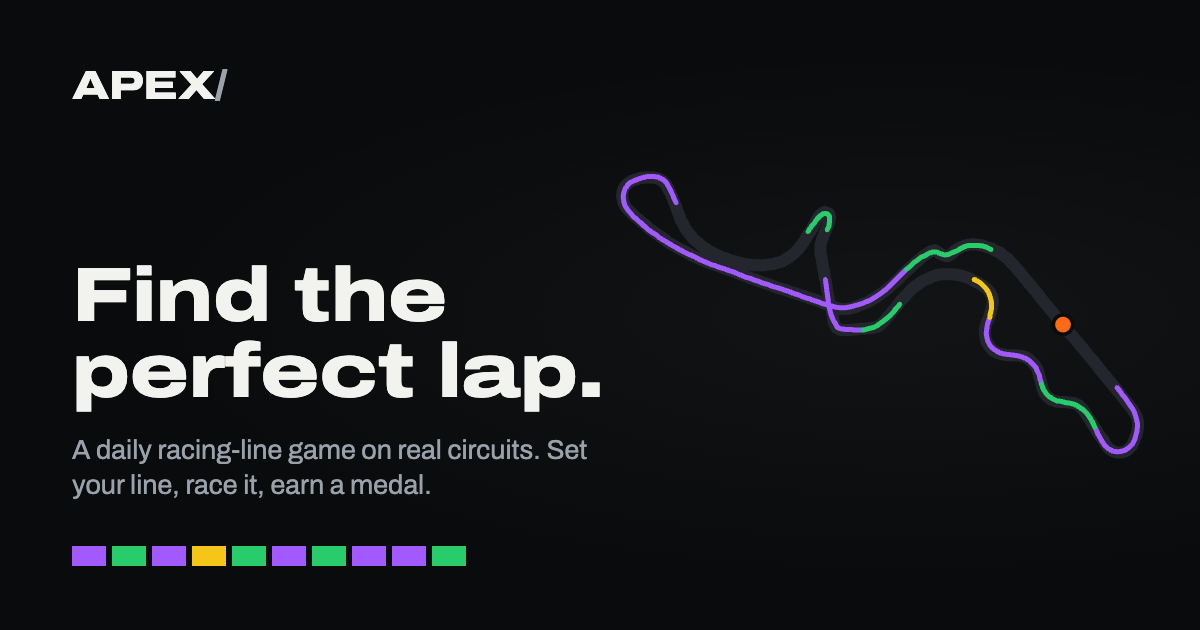
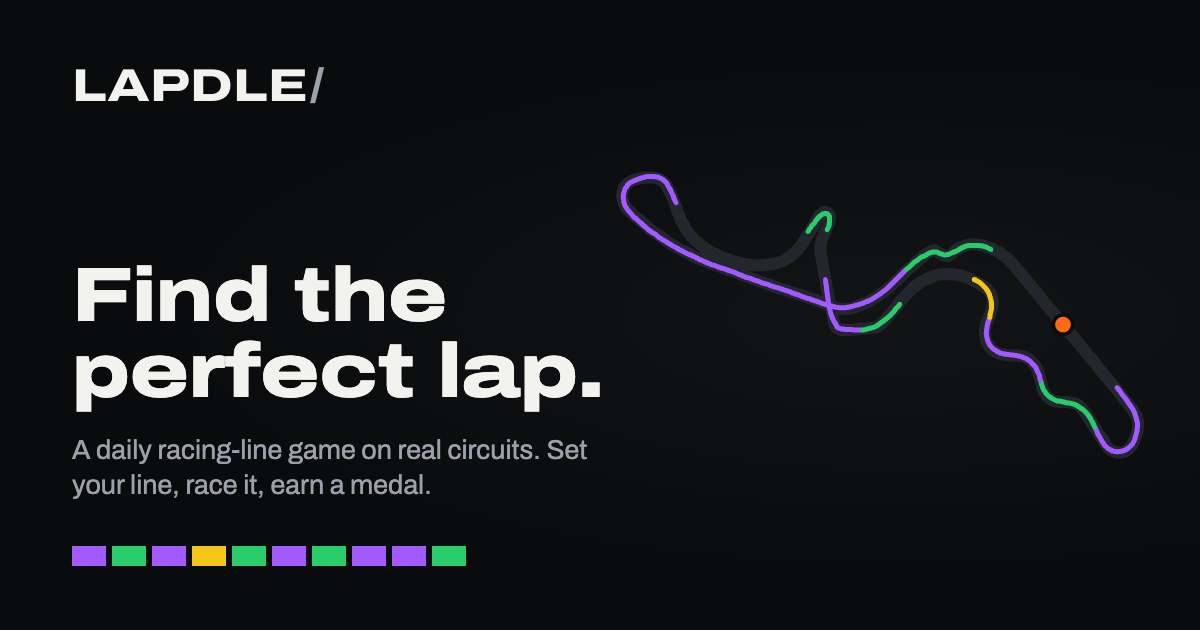
Rename to Lapdle

Changed region(s): [[0.0617, 0.0905, 0.2775, 0.181]]

diff --git a/apps/web/src/ui/Footer.tsx b/apps/web/src/ui/Footer.tsx
@@ -9,7 +9,7 @@ const link = "text-left text-[14px] text-paint/80 transition-colors hover:text-p
 const heading = "caption text-steel";
 
 /**
- * The site footer: what APEX is and who it isn't affiliated with, every game
+ * The site footer: what Lapdle is and who it isn't affiliated with, every game
  * and page in two short columns, then contact, social accounts and cookie
  * choices. Square, hairline-divided, like the rest of the grid.
  */
@@ -37,7 +37,7 @@ export function Footer({ onAction }: { onAction: (a: HubAction) => void }) {
       <div className="mx-auto grid max-w-[1240px] gap-10 px-4 pt-12 pb-10 md:px-8 lg:grid-cols-[5fr_7fr] lg:gap-16 lg:pt-14">
         <div className="max-w-[46ch]">
           <span className="wide text-[26px] leading-none tracking-[0.02em] text-paint">
-            APEX<span className="text-steel">/</span>
+            LAPDLE<span className="text-steel">/</span>
           </span>
           <p className="mt-4 text-[15px] leading-relaxed text-paint/85">A daily racing-line puzzle on real circuits. Set your line through every corner, drive it, chase the perfect lap.</p>
           <p className="mt-3 text-[13px] leading-relaxed text-steel">
@@ -76,7 +76,7 @@ export function Footer({ onAction }: { onAction: (a: HubAction) => void }) {
             </ul>
           </nav>
           <div className="col-span-2 sm:col-span-1">
-            <h2 className={heading}>APEX</h2>
+            <h2 className={heading}>Lapdle</h2>
             <ul className="mt-3 space-y-2.5">
               <li>
                 <button className={link} onClick={() => onAction({ kind: "mini", game: "privacy" })}>
@@ -98,7 +98,7 @@ export function Footer({ onAction }: { onAction: (a: HubAction) => void }) {
               )}
             </ul>
             {SOCIAL.length > 0 && (
-              <ul className="mt-5 flex gap-1" aria-label="APEX on social media">
+              <ul className="mt-5 flex gap-1" aria-label="Lapdle on social media">
                 {SOCIAL.map((s) => {
                   const I = ICON[s.id];
                   return (
@@ -107,7 +107,7 @@ export function Footer({ onAction }: { onAction: (a: HubAction) => void }) {
                         href={s.url}
                         target="_blank"
                         rel="noreferrer me"
-                        aria-label={`APEX on ${s.name}`}
+                        aria-label={`Lapdle on ${s.name}`}
                         className="grid h-10 w-10 place-items-center border border-line text-paint/80 transition-colors hover:border-paint/40 hover:text-paint"
                       >
                         <I weight="bold" className="h-[18px] w-[18px]" aria-hidden="true" />
@@ -123,7 +123,7 @@ export function Footer({ onAction }: { onAction: (a: HubAction) => void }) {
       <div className="border-t border-line">
         <p className="mx-auto flex max-w-[1240px] flex-wrap justify-between gap-x-6 gap-y-1 px-4 pt-4 pb-[max(16px,env(safe-area-inset-bottom))] text-[12px] text-steel md:px-8">
           <span>
-            © {year} {OPERATOR.name || "APEX"}
+            © {year} {OPERATOR.name || "Lapdle"}
           </span>
           <span>Times and lines are simulated. Facts checked against official race pages.</span>
         </p>

diff --git a/apps/web/src/ui/Privacy.tsx b/apps/web/src/ui/Privacy.tsx
@@ -63,12 +63,12 @@ export function Privacy() {
         </header>
 
         <Section title="No account, no sign-in">
-          <p>APEX has no accounts. You never give us a name, an email address or a password to play.</p>
+          <p>Lapdle has no accounts. You never give us a name, an email address or a password to play.</p>
         </Section>
 
         <Section title="Loading the site">
           <p>
-            Like any website, APEX is delivered by a hosting provider. To send you the pages, its servers necessarily receive your IP address and basic browser details, and keep short-lived access logs to keep the
+            Like any website, Lapdle is delivered by a hosting provider. To send you the pages, its servers necessarily receive your IP address and basic browser details, and keep short-lived access logs to keep the
             service running and secure (legitimate interest, Art. 6(1)(f) GDPR). We don't use these logs to identify or follow players.
           </p>
         </Section>
@@ -133,14 +133,14 @@ export function Privacy() {
 
         <Section title="Map data and facts">
           <p>
-            Circuit surroundings come from OpenStreetMap (© OpenStreetMap contributors, ODbL). Circuit facts come from public sources. APEX is an independent game, not affiliated with Formula 1 or any team; circuit names refer to
+            Circuit surroundings come from OpenStreetMap (© OpenStreetMap contributors, ODbL). Circuit facts come from public sources. Lapdle is an independent game, not affiliated with Formula 1 or any team; circuit names refer to
             the venues only.
           </p>
         </Section>
 
         <Section title="Children">
           <p>
-            APEX is a general-audience game, not directed at children. It has no accounts and asks for no personal details. Where ads are shown, players under the age of digital consent (16 in Romania) shouldn't agree to
+            Lapdle is a general-audience game, not directed at children. It has no accounts and asks for no personal details. Where ads are shown, players under the age of digital consent (16 in Romania) shouldn't agree to
             personalised advertising; choose "Do not consent" in the cookie message, or ask a parent.
           </p>
         </Section>
@@ -173,10 +173,10 @@ export function Privacy() {
         </Section>
 
         <Section title="Changes to this policy">
-          <p>If what APEX collects changes, we update this page first and change the date at the top. Links to other sites (OpenStreetMap, Google) follow those sites' own policies.</p>
+          <p>If what Lapdle collects changes, we update this page first and change the date at the top. Links to other sites (OpenStreetMap, Google) follow those sites' own policies.</p>
         </Section>
 
-        <Section title="Who runs APEX">
+        <Section title="Who runs Lapdle">
           {OPERATOR_SET ? (
             <p>
               {OPERATOR.name}

diff --git a/apps/web/src/ui/Legal.tsx b/apps/web/src/ui/Legal.tsx
@@ -11,7 +11,7 @@ function Section({ title, children }: { title: string; children: React.ReactNode
   );
 }
 
-/** Software and data APEX ships, with their licences (checked against the installed packages). */
+/** Software and data Lapdle ships, with their licences (checked against the installed packages). */
 const SOFTWARE: [string, string, string][] = [
   ["React and React DOM", "MIT", "https://github.com/facebook/react/blob/main/LICENSE"],
   ["Phosphor Icons", "MIT", "https://github.com/phosphor-icons/react/blob/master/LICENSE"],
@@ -31,7 +31,7 @@ export function Legal() {
           <p className="mt-3 text-[14px] text-steel">Last updated 4 October 2026.</p>
         </header>
 
-        <Section title="Who runs APEX">
+        <Section title="Who runs Lapdle">
           {OPERATOR_SET ? (
             <p>
               {OPERATOR.name}
@@ -58,7 +58,7 @@ export function Legal() {
         </Section>
 
         <Section title="Terms of use">
-          <p>APEX is free to play in your browser. By playing you agree to these terms.</p>
+          <p>Lapdle is free to play in your browser. By playing you agree to these terms.</p>
           <p>
             Play fairly. Don't automate play or leaderboard submissions, flood the servers, or try to get around the game's limits or security. We may remove results, limit access or reset the leaderboard to keep it fair and
             working.
@@ -68,14 +68,14 @@ export function Legal() {
             and these terms; the date above shows the latest version.
           </p>
           <p>
-            APEX is provided as it is, without guarantees that it will always be available or free of errors. Lap times and facts are for fun. Nothing in these terms limits rights you have as a consumer under the law that
+            Lapdle is provided as it is, without guarantees that it will always be available or free of errors. Lap times and facts are for fun. Nothing in these terms limits rights you have as a consumer under the law that
             applies to you. These terms are governed by Romanian law.
           </p>
         </Section>
 
         <Section title="Trademarks">
           <p>
-            APEX is unofficial and not associated in any way with the Formula 1 companies. F1, FORMULA ONE, FORMULA 1, FIA FORMULA ONE WORLD CHAMPIONSHIP, GRAND PRIX and related marks are trade marks of Formula One Licensing
+            Lapdle is unofficial and not associated in any way with the Formula 1 companies. F1, FORMULA ONE, FORMULA 1, FIA FORMULA ONE WORLD CHAMPIONSHIP, GRAND PRIX and related marks are trade marks of Formula One Licensing
             B.V.
           </p>
           <p>Circuit names are used only to identify the real venues and remain the marks of their owners. The game uses no team, driver or sponsor names, logos or liveries.</p>

diff --git a/apps/web/src/App.tsx b/apps/web/src/App.tsx
@@ -63,13 +63,13 @@ function initialScreen(): Screen {
 
 /** The minigames have their own addresses and titles, so they can be found and shared. */
 const MINI: Record<Mini, string> = {
-  reaction: "Lights out: start-light reaction test | APEX",
-  mystery: "Mystery circuit: guess the racing circuit | APEX",
-  "higher-lower": "Higher or lower: racing circuit facts | APEX",
-  "pit-stop": "Pit stop: change four tyres, go on green | APEX",
-  archive: "Daily Quali archive: every past circuit | APEX",
-  privacy: "Privacy | APEX",
-  legal: "Legal notice and terms | APEX",
+  reaction: "Lights out: start-light reaction test | Lapdle",
+  mystery: "Mystery circuit: guess the racing circuit | Lapdle",
+  "higher-lower": "Higher or lower: racing circuit facts | Lapdle",
+  "pit-stop": "Pit stop: change four tyres, go on green | Lapdle",
+  archive: "Daily Quali archive: every past circuit | Lapdle",
+  privacy: "Privacy | Lapdle",
+  legal: "Legal notice and terms | Lapdle",
 };
 
 const MODE_LABEL: Record<Mode, string> = { daily: "Daily quali", season: "Perfect season", practice: "Free practice", corner: "Corner of the week" };
@@ -108,7 +108,7 @@ export function App() {
     const mini = screen.kind in MINI ? (screen.kind as Mini) : null;
     const corner = screen.kind === "play" && screen.mode === "corner";
     url.pathname = mini ? `/${mini}` : corner ? "/corner" : "/";
-    document.title = mini ? MINI[mini] : corner ? `Corner of the week: ${weeklyCorner().name} | APEX` : "APEX: find the perfect lap";
+    document.title = mini ? MINI[mini] : corner ? `Corner of the week: ${weeklyCorner().name} | Lapdle` : "Lapdle: find the perfect lap";
     if (screen.kind === "play" && screen.mode === "practice") {
       url.searchParams.set("play", "practice");
       url.searchParams.set("track", screen.trackId);
@@ -155,8 +155,8 @@ export function App() {
             </button>
           )}
           <div className="flex min-w-0 items-center gap-3 px-3">
-            <span className="wide text-[20px] leading-none tracking-[0.02em] text-paint">
-              APEX<span className="text-steel">/</span>
+            <span className="wide text-[17px] leading-none tracking-[0.02em] text-paint sm:text-[20px]">
+              LAPDLE<span className="text-steel">/</span>
             </span>
             {track && screen.kind === "play" && (
               <div className="min-w-0 leading-tight">

diff --git a/apps/web/vite.config.ts b/apps/web/vite.config.ts
@@ -21,20 +21,20 @@ function launchFiles(env: Record<string, string>): Plugin {
       // the display font is found only once the CSS loads: preload the Latin cut so text paints sooner
       const font = Object.keys(ctx.bundle ?? {}).find((f) => /archivo-latin-wdth-normal-.*\.woff2$/.test(f));
       const preload = font ? `<link rel="preload" href="/${font}" as="font" type="font/woff2" crossorigin />` : "";
-      const title = "APEX: find the perfect lap";
+      const title = "Lapdle: find the perfect lap";
       const description = "A daily racing-line game on real circuits. Set your line corner by corner, race the lap, earn a medal, chase the perfect time.";
       const tags = [
         preload,
         site && `<link rel="canonical" href="${site}/" />`,
         `<meta property="og:type" content="website" />`,
-        `<meta property="og:site_name" content="APEX" />`,
+        `<meta property="og:site_name" content="Lapdle" />`,
         `<meta property="og:title" content="${title}" />`,
         `<meta property="og:description" content="${description}" />`,
         site && `<meta property="og:url" content="${site}/" />`,
         `<meta property="og:image" content="${abs("/og.png")}" />`,
         `<meta property="og:image:width" content="1200" />`,
         `<meta property="og:image:height" content="630" />`,
-        `<meta property="og:image:alt" content="APEX: a circuit drawn as a timing map, with the lap painted in sector colours" />`,
+        `<meta property="og:image:alt" content="Lapdle: a circuit drawn as a timing map, with the lap painted in sector colours" />`,
         `<meta name="twitter:card" content="summary_large_image" />`,
         `<meta name="twitter:title" content="${title}" />`,
         `<meta name="twitter:description" content="${description}" />`,

diff --git a/apps/web/src/modes/daily.ts b/apps/web/src/modes/daily.ts
@@ -278,5 +278,5 @@ export function shareText(rec: DailyRecord, trackName: string, flag: string, emo
   const pole = realPole(rec.trackId, conditionOf(rec));
   const fasterThanPole = pole && best < pole.ms ? `\nFaster than the real 2025 pole by ${((pole.ms - best) / 1000).toFixed(3)}s` : "";
   const cond = conditionOf(rec);
-  return `APEX Quali #${n}${rec.archive ? " (archive)" : ""} ${flag} ${trackName}${cond === "dry" ? "" : `, ${CONDITION_NAME[cond].toLowerCase()}`}\n${head} ${m}:${s} in ${rec.laps.length}/${DAILY_LAPS} laps${hints}${fasterThanPole}\n${rows}${race}`;
+  return `Lapdle Quali #${n}${rec.archive ? " (archive)" : ""} ${flag} ${trackName}${cond === "dry" ? "" : `, ${CONDITION_NAME[cond].toLowerCase()}`}\n${head} ${m}:${s} in ${rec.laps.length}/${DAILY_LAPS} laps${hints}${fasterThanPole}\n${rows}${race}`;
 }

diff --git a/apps/web/src/modes/corner.ts b/apps/web/src/modes/corner.ts
@@ -114,5 +114,5 @@ export function cornerShare(week: CornerWeek, corner: WeeklyCorner, key = dateKe
   const medal = cornerMedal(week.bestDeltaMs);
   const tag = medal ? { pole: "🟪 Pole", gold: "🥇 Gold", silver: "🥈 Silver", bronze: "🥉 Bronze" }[medal] : "No medal";
   const delta = week.bestDeltaMs <= 0 ? "on the perfect line" : `+${(week.bestDeltaMs / 1000).toFixed(3)} s to perfect`;
-  return `APEX Corner of the week #${weekNumber(key)}: ${corner.name}\n${tag}, ${delta} (${week.tries} ${week.tries === 1 ? "try" : "tries"})`;
+  return `Lapdle Corner of the week #${weekNumber(key)}: ${corner.name}\n${tag}, ${delta} (${week.tries} ${week.tries === 1 ? "try" : "tries"})`;
 }

diff --git a/apps/web/src/ui/Reaction.tsx b/apps/web/src/ui/Reaction.tsx
@@ -82,7 +82,7 @@ export function Reaction({ onPlayDaily }: { onPlayDaily: () => void }) {
 
   const avg = average(rec);
   const share = async () => {
-    const text = `APEX lights out: ${secs(ms ?? rec.best ?? 0)}s${rec.best !== null ? ` (best ${secs(rec.best)}s)` : ""}. How fast off the line are you? ${location.origin}/reaction`;
+    const text = `Lapdle lights out: ${secs(ms ?? rec.best ?? 0)}s${rec.best !== null ? ` (best ${secs(rec.best)}s)` : ""}. How fast off the line are you? ${location.origin}/reaction`;
     try {
       if (navigator.share) await navigator.share({ text });
       else {

diff --git a/apps/web/src/modes/pitstop.ts b/apps/web/src/modes/pitstop.ts
@@ -113,5 +113,5 @@ export const secs = (ms: number) => (ms / 1000).toFixed(3);
 export function pitShare(result: PitResult, link: string, key = dateKey()): string {
   const squares = result.splits.map((ms, i) => SQUARE[gradeStep(i, ms)]).join("");
   const pen = penaltyMs(result);
-  return `APEX Pit stop #${dailyNumber(key)} ${secs(result.totalMs)} s\n${squares}${pen ? ` +${(pen / 1000).toFixed(1)} s penalty` : ""}\n${link}`;
+  return `Lapdle Pit stop #${dailyNumber(key)} ${secs(result.totalMs)} s\n${squares}${pen ? ` +${(pen / 1000).toFixed(1)} s penalty` : ""}\n${link}`;
 }

diff --git a/apps/web/src/ui/PitStop.tsx b/apps/web/src/ui/PitStop.tsx
@@ -221,7 +221,7 @@ export function PitStop({ onPlayDaily }: { onPlayDaily: () => void }) {
 
   const share = async () => {
     if (!shown) return;
-    const text = mode === "daily" ? pitShare(shown, `${location.origin}/pit-stop`) : `APEX Pit stop: ${secs(shown.totalMs)} s. Beat it: ${location.origin}/pit-stop`;
+    const text = mode === "daily" ? pitShare(shown, `${location.origin}/pit-stop`) : `Lapdle Pit stop: ${secs(shown.totalMs)} s. Beat it: ${location.origin}/pit-stop`;
     try {
       if (navigator.share) await navigator.share({ text });
       else {

diff --git a/apps/web/src/modes/mystery.ts b/apps/web/src/modes/mystery.ts
@@ -123,7 +123,7 @@ export function mysteryShare(day: MysteryDay, link: string): string {
     return [f.country, f.length.mark, f.turns.mark, f.firstGp.mark].map((m) => SQUARE[m]).join("");
   });
   const score = isSolved(day) ? `${day.guesses.length}/${MYSTERY_TRIES}` : `X/${MYSTERY_TRIES}`;
-  return `APEX Mystery circuit #${dailyNumber(day.key)} ${score}\n${rows.join("\n")}\n${link}`;
+  return `Lapdle Mystery circuit #${dailyNumber(day.key)} ${score}\n${rows.join("\n")}\n${link}`;
 }
 
 export type { CircuitFacts };

diff --git a/apps/web/src/ui/HigherLower.tsx b/apps/web/src/ui/HigherLower.tsx
@@ -72,7 +72,7 @@ export function HigherLower({ onPlayDaily }: { onPlayDaily: () => void }) {
 
   const { stat, left, right } = round;
   const share = async () => {
-    const text = `APEX Higher or lower: ${streak} in a row on real circuit facts (best ${rec.best}). ${location.origin}/higher-lower`;
+    const text = `Lapdle Higher or lower: ${streak} in a row on real circuit facts (best ${rec.best}). ${location.origin}/higher-lower`;
     try {
       if (navigator.share) await navigator.share({ text });
       else {
